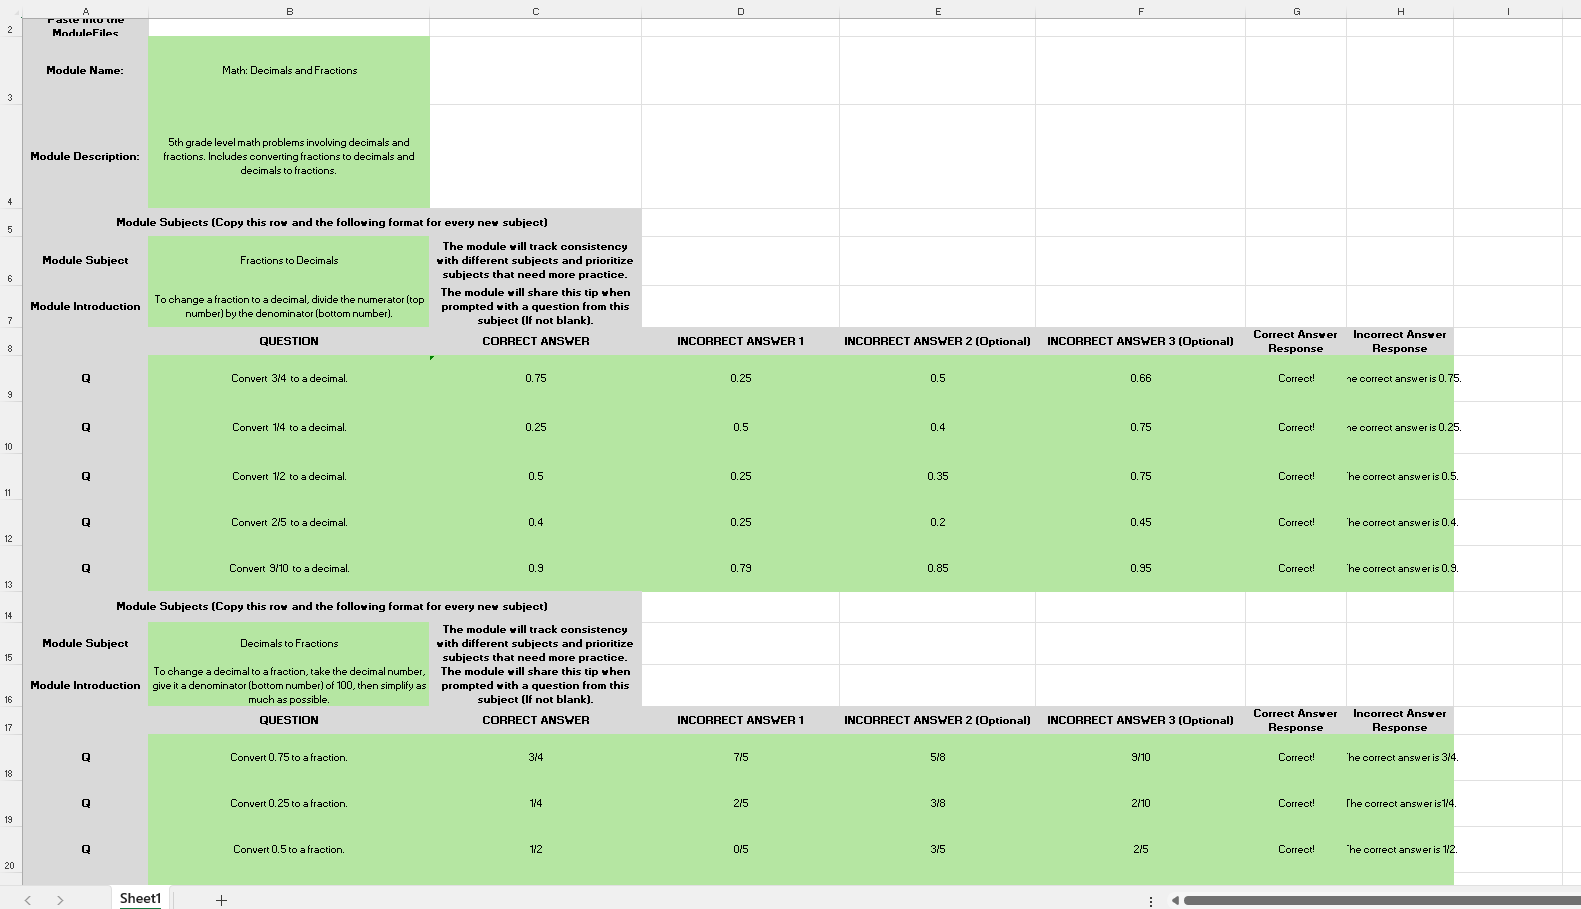
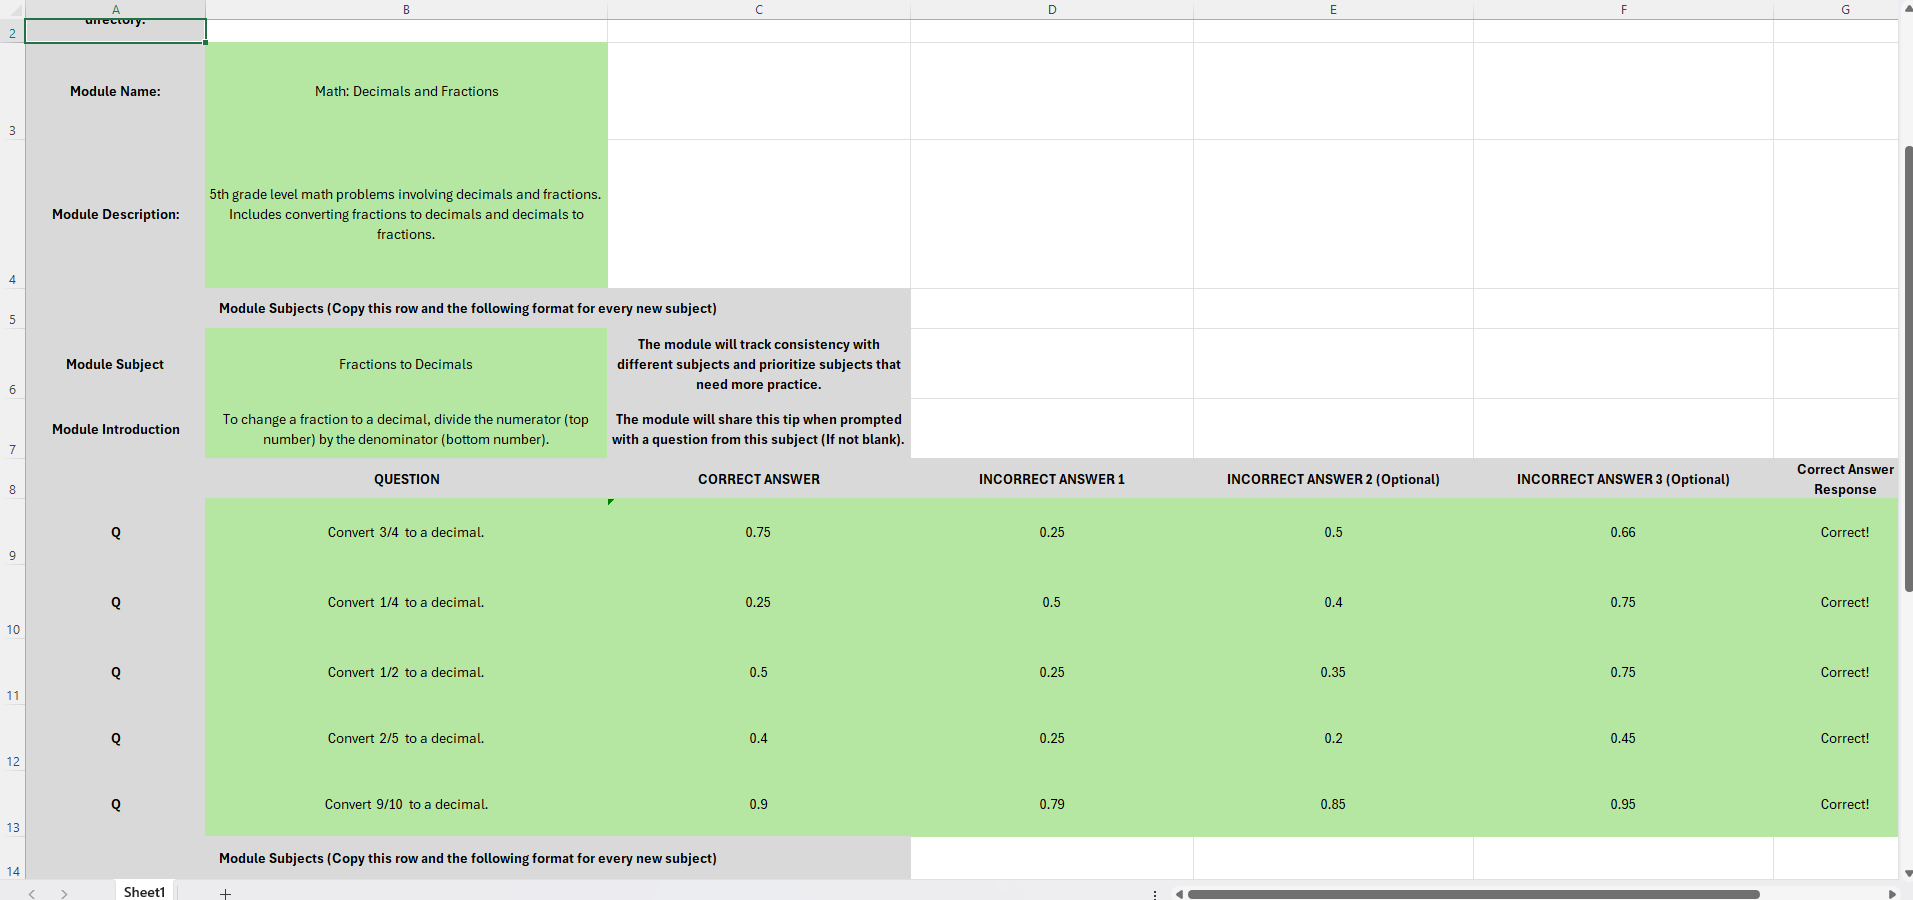
Slideshow and research descriptions
Added research descriptions, references, and excel image updated for gls. Slideshow now wider.

diff --git a/projects.html b/projects.html
@@ -120,6 +120,23 @@
           </ul>
         </p>
         
+        <p class="project-description">
+          <b>
+            Research
+          </b>
+        </p>
+
+        <p>
+          In earlier iterations of the Ren’Py visual novel Library 
+          on the Lake, an archery minigame I programmed relied on players 
+          reading on-screen instructions to play as anticipated (Black Banshee 
+          Studios, 2026). Our studio’s realization was that players were not 
+          reading the instructions, so we used “gamification” by introducing a 
+          tutorial rather than relying on text instructions (Black Banshee Studios, 2026). 
+          Gamification to motivate learners, even within a video game, aligns 
+          with how Han and Chen describe gamification leveraging the inherent 
+          joy of play to create a learning environment that is both challenging and enjoyable (2024).
+        </p>
         
       </section>
       
@@ -191,6 +208,21 @@
           </ul>
         </p>
         
+        <p class="project-description">
+          <b>
+            Research
+          </b>
+        </p>
+        
+        <p>
+          During the early stages of our Unreal Engine project, Trick nor Treat, 
+          we faced a unique challenge of balancing the scares of a horror game 
+          with the education of a serious game (CelleC Games, n.d.). The decision 
+          was made to use quizzes as a test of player knowledge in Trick or Treat, 
+          similar to how the GMCLMS uses gamified quiz module (Ahmed et al., 2025). 
+          These quizzes are part of a system that improved motivation issues for 
+          learners in the object-oriented programming discipline (Ahmed et al., 2025).
+        </p>
         
       </section>
 
@@ -242,7 +274,7 @@
           </b>
           
         </p>
-
+        
         <p class="project-description">
           <b>
             Responsibilities:
@@ -264,15 +296,58 @@
           </ul>
         </p>
         
+        <p class="project-description">
+          <b>
+            Research
+          </b>
+        </p>
+
+        <p>
+          My personal project involves creating a prototype learning system in Godot 4.7. 
+          This system involves loading csv file modules, loading the learning material 
+          from these files, and implementing them modularly into a casual video game. I 
+          am applying findings from Li, Ma, and Shi (2023) to the project, including but 
+          not limited to discipline selection, target demographic, differences in learners, 
+          and techniques to improve intrinsic motivation. I will also be considering elements 
+          described by Han and Chen (2024) including offline leaderboards and missions as motivators.
+        </p>
         
       </section>
 
-      <h2 class="project-gap"></h2>
+      </section>
+
+      </section>
+      
+      <h2 class="project-gap">
+      </h2>
+
+      <div>
+        References
+        </p>
+        <p>
+          Ahmed, H. M. M., El-Sabagh, H. A., Elbourhamy, D. M. (2025). Effect of gamified, mobile, cloud-based learning management system (gmclms) on student engagement and achievement. International Journal of Education Technology in Higher Education. 3(3), 1-7, https://doi.org/10.59075/cdw5pc42
+
+        </p>
+        <p>
+          CelleC Games. (n.d.). Trick nor treat [Video game].
+        </p>
+        <p>
+          Black Banshee Studios. (2026). Library on the lake [Video game]. Black Banshee Studios.
+        </p>
+        <p>
+          Han, X. & Chen, P. (2024). Gamification in education: enhancing engagement and learning outcomes through game-based strategies. Curriculum and Teaching Methodology, 7(10), 1-8. https://dx.doi.org/10.23977/curtm.2024.071001
+        </p>
+        <p>
+          Li, M., Ma, S., Shi, Y. (2023). Examining the effectiveness of gamification as a tool promoting teaching and learning in educational settings: a meta-analysis. Frontiers in Psychology. 14. https://doi.org/10.3389/fpsyg.2023.1253549
+        </p>
+
+      </div>
 
     </main>
 
   </div>
-  
+
+
 <script src="slideshow.js"></script>
 </body>
 </html>

diff --git a/style.css b/style.css
@@ -204,8 +204,8 @@
 
     .slideshow {
       position: relative;
-      width: 70%;
-      max-width: 600px;
+      width: 100%;
+      max-width: 900px;
       margin: 21px 0 20px;
       background: #252936;
       overflow: hidden;
